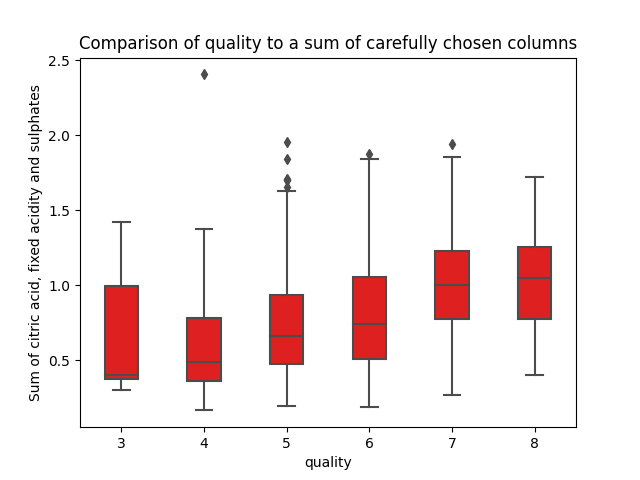
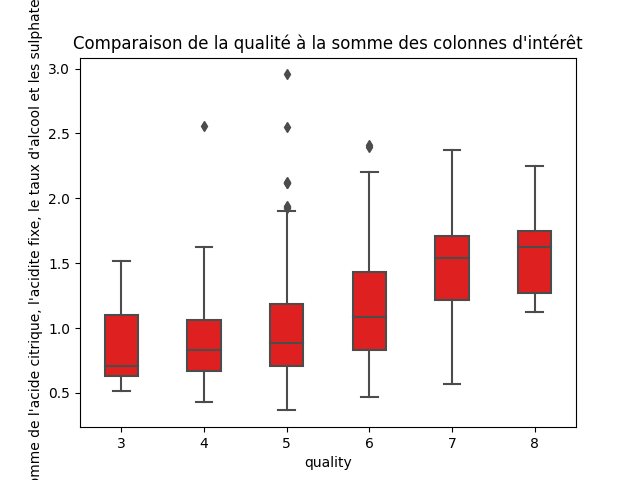
Graphs en fr

diff --git a/dataViz.py b/dataViz.py
@@ -100,8 +100,9 @@ def plotQualiteVSColDecrois():
         df1['chlorides']+df1['density'] + df1['pH']
     sns.boxplot(x='quality', y='Sum', data=df1, color='red', width=0.4)
     plt.xlabel('Qualité')
-    plt.ylabel('Somme de l acidité volatile, les chlorides, la densité et le pH')
-    title = 'Comparaison entre qualité et la somme des colonnes d intérêt'
+    plt.ylabel(
+        "Somme de l'acidité volatile, des chlorides, de la densité et du pH")
+    title = "Comparaison entre qualité et la somme des colonnes d'intérêt"
     plt.title(title)
     plt.show()
 
@@ -116,8 +117,9 @@ def plotQualiteVSColCrois():
         df1['fixed acidity'] + df1['alcohol']
     sns.boxplot(x='quality', y='Sum1', data=df1, color='red', width=0.4)
     plt.xlabel('quality')
-    plt.ylabel('Somme de l acide citrique, l acidite fixe, le taux d alcool et les sulphates')
-    title = 'Comparaison de la qualité à la somme des colonnes d intérêt'
+    plt.ylabel(
+        "Somme de l'acide citrique, l'acidite fixe, le taux d'alcool et les sulphates")
+    title = "Comparaison de la qualité à la somme des colonnes d'intérêt"
     plt.title(title)
     plt.show()
 
@@ -148,12 +150,14 @@ def plotQualiteVSColTot():
     df1['Sum1'] = df1['citric acid']+df1['sulphates'] + \
         df1['fixed acidity'] + df1['alcohol']
     df1['Sum2'] = df1['volatile acidity'] + \
-        df1['chlorides']+df1['density'] + df1['pH']
+        df1['chlorides']+df1['density'] + df1['total sulfur dioxide']
     df1['Tot'] = df1['Sum1'] - df1['Sum2']
+    plt.figure(figsize=(10, 6))
+
     sns.boxplot(x='quality', y='Tot', data=df1, color='red', width=0.4)
     plt.xlabel('quality')
     plt.ylabel('Sum')
-    title = 'Comparaison de la qualité d acide citrique, des sulphates, de l acidité fixe, du taux d alcool \n- de l acidité volatile, des chlorides, de la densité et du pH'
+    title = "Comparaison de la qualité par rapport à la somme de \nl'acide citrique, des sulphates, de l'acidité fixe, du taux d alcool \nen soustrayant l'acidité volatile, les chlorides, la densité et le total de dioxyde de soufre"
     plt.title(title)
     plt.show()
 

diff --git a/graphOnDatabase.py b/graphOnDatabase.py
@@ -23,7 +23,7 @@ description = DATASET_R.describe()
 description.to_markdown('description.md')
 
 # dv.plotMoyParQualite()
-# dv.plotQualiteVSColDecrois()
-# dv.plotQualiteVSColCrois()
-# dv.plotQualiteVSColTot()
+dv.plotQualiteVSColDecrois()
+dv.plotQualiteVSColCrois()
+dv.plotQualiteVSColTot()
 # dv.plotBoitesMoustQuali()
